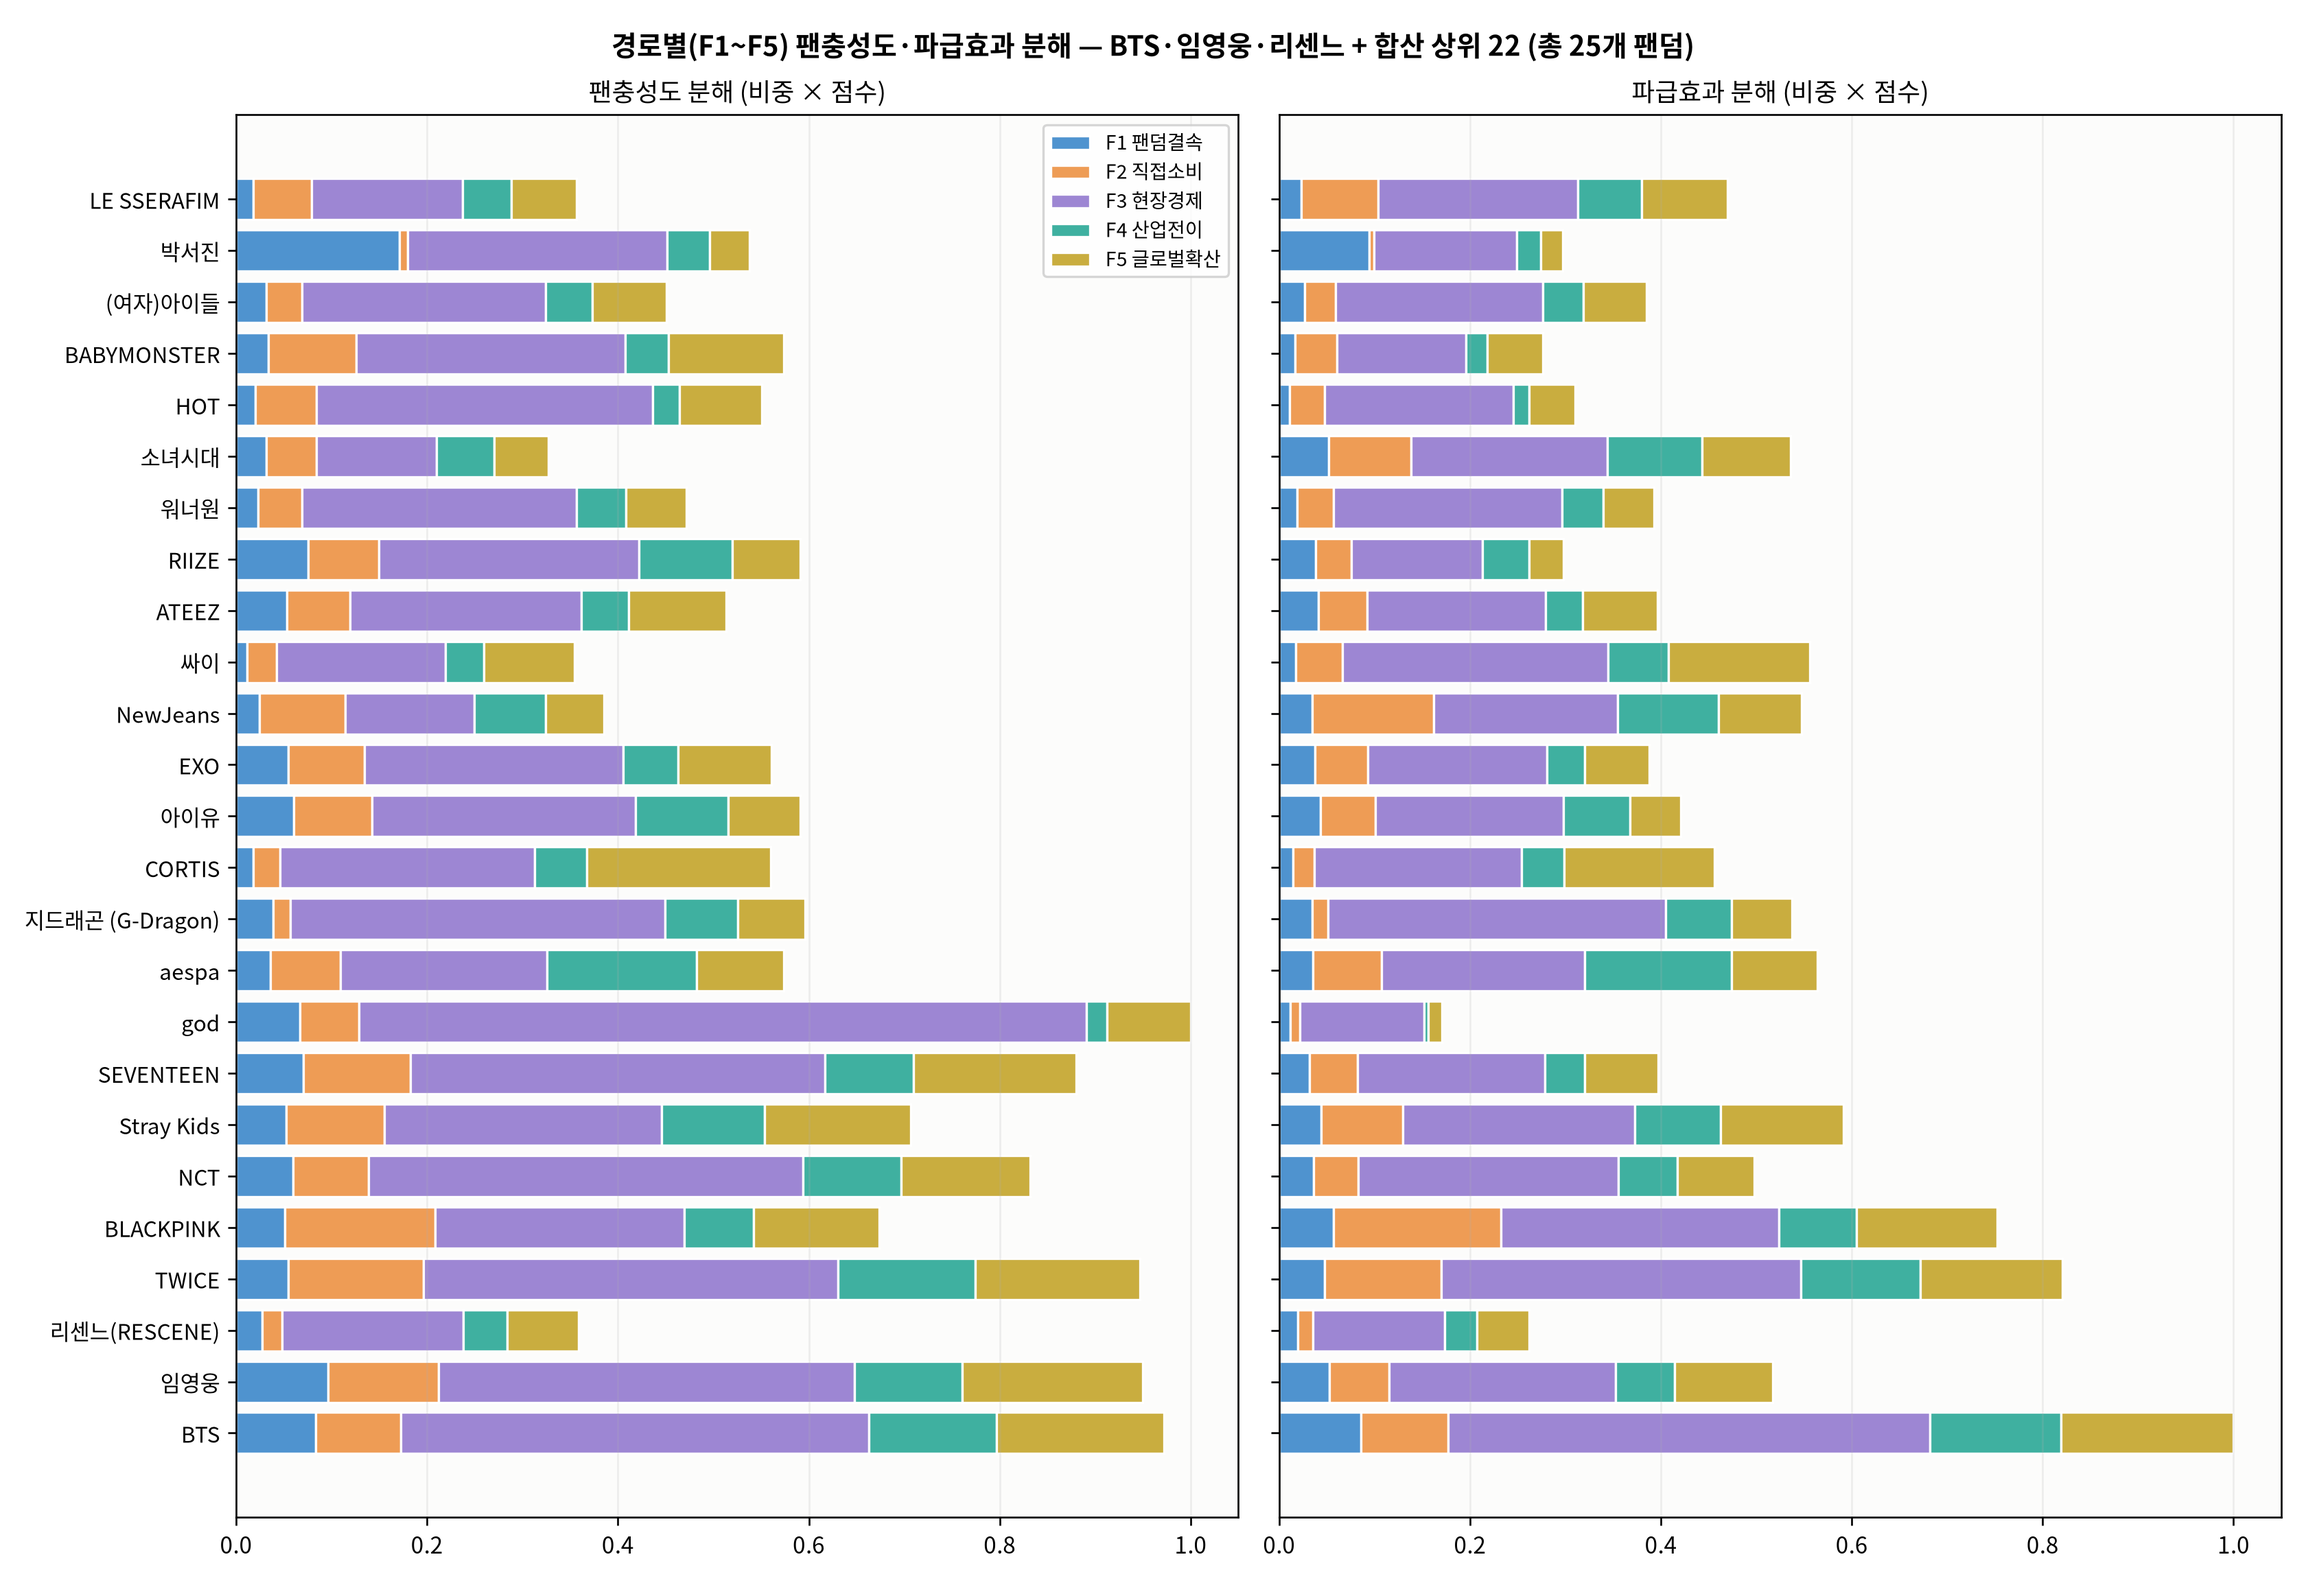
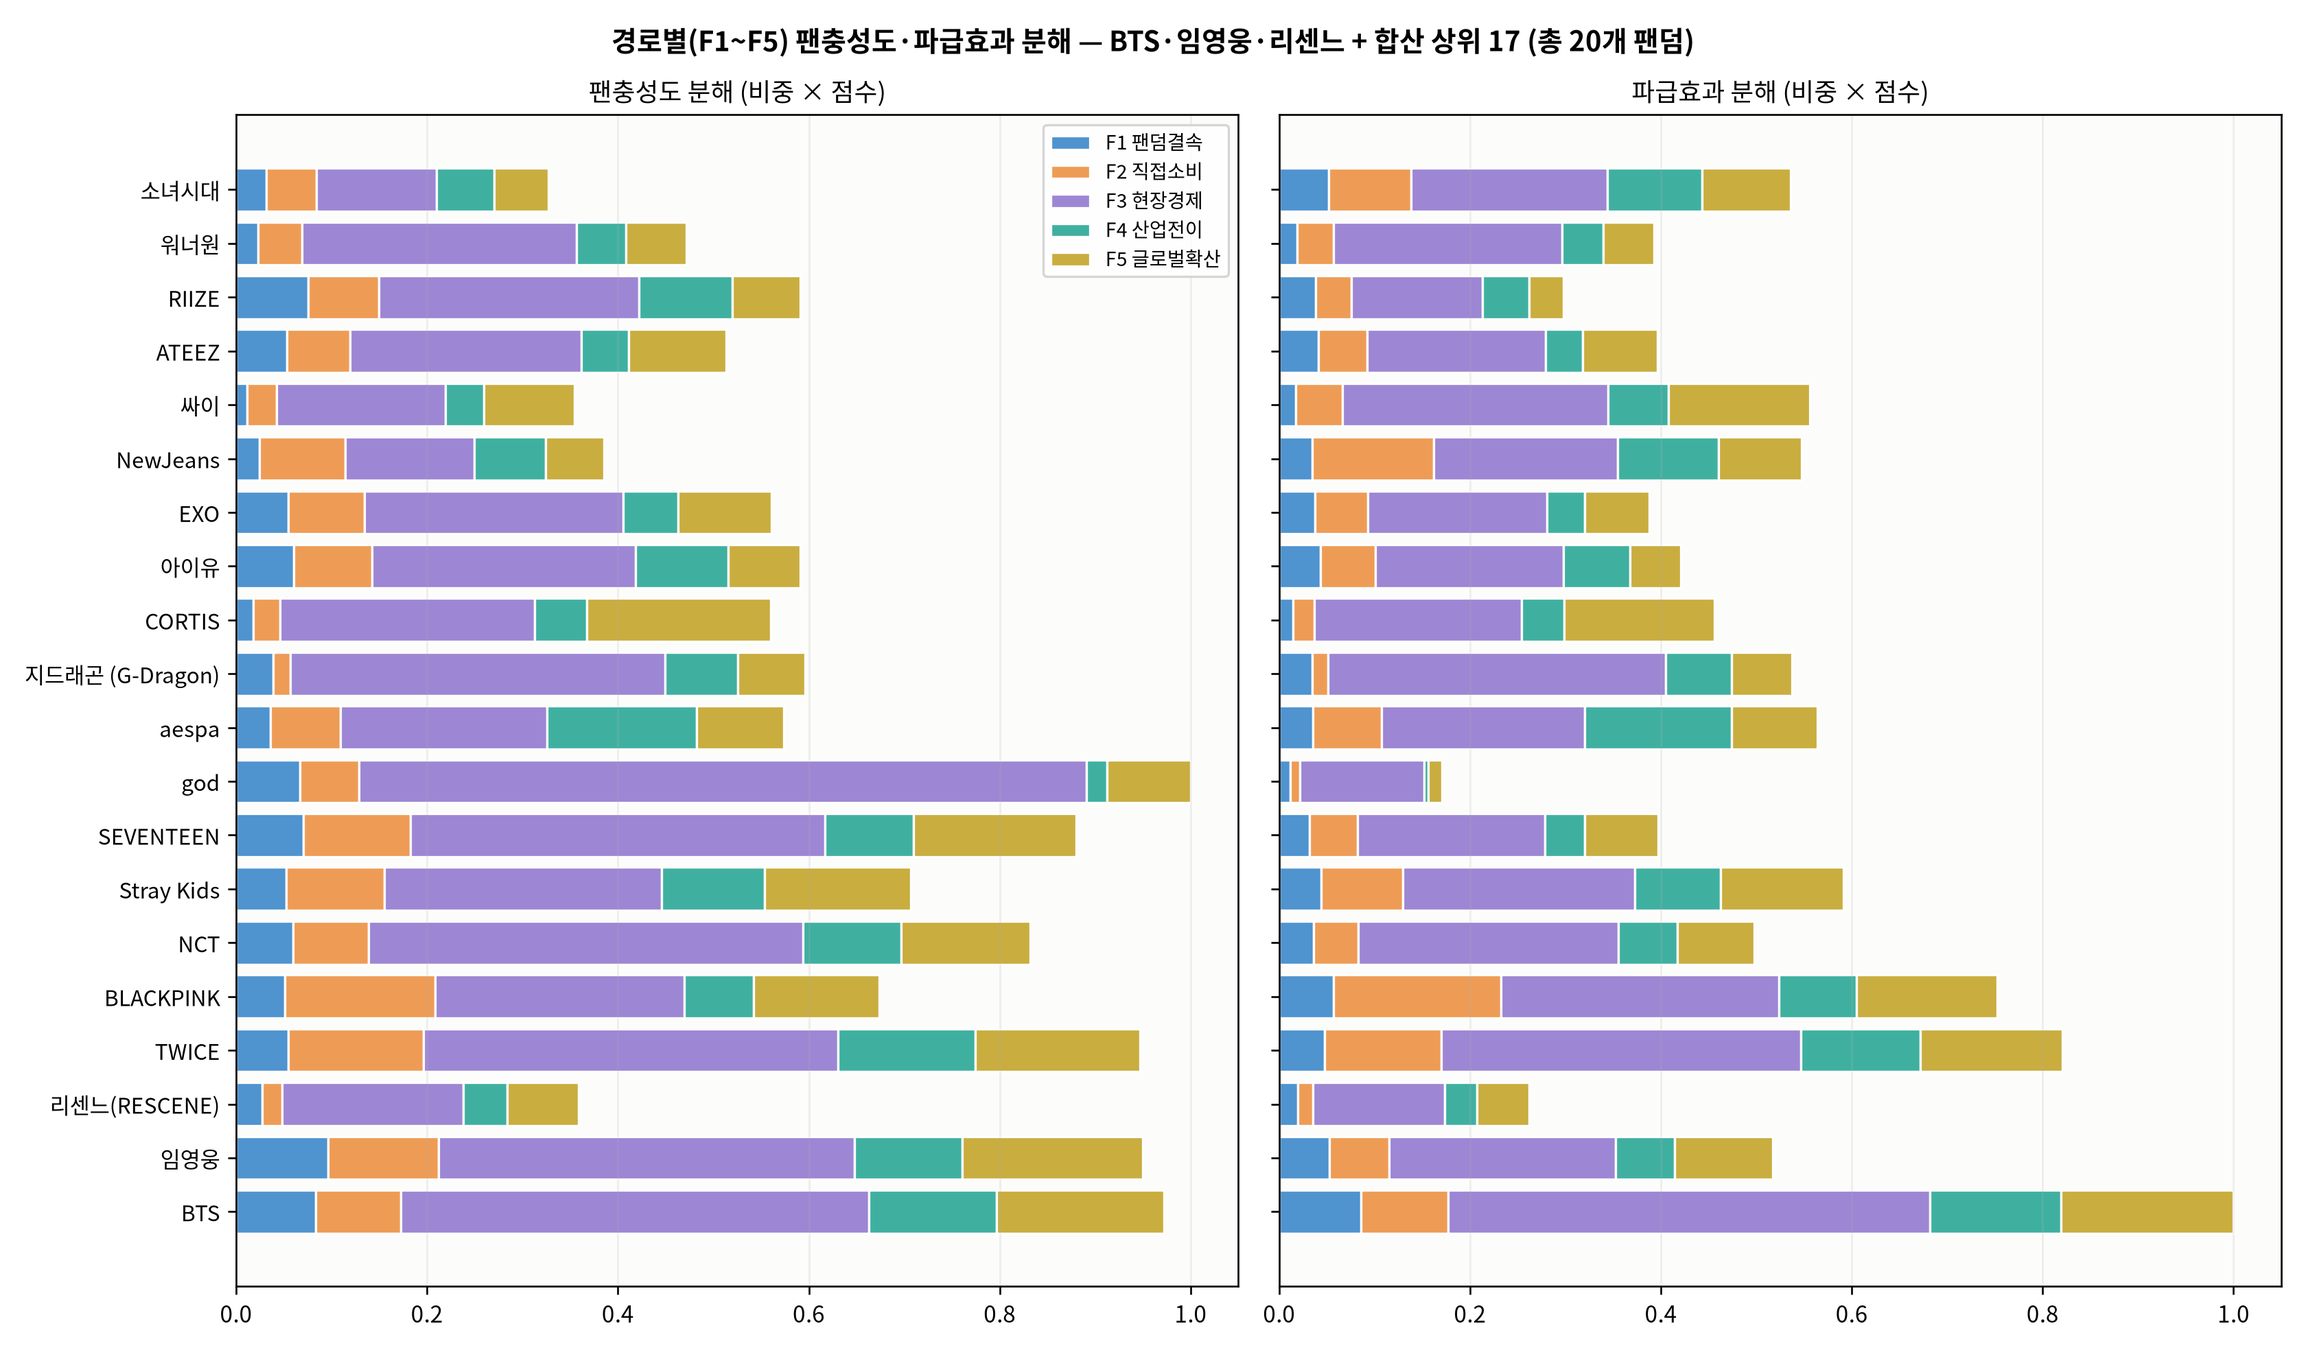
그림 6 경로별 분해를 20개 팬덤(강조 3 + 합산 상위 17)으로
Claude-Session: https://claude.ai/code/session_01VWuqhk8UFpTen2BecLssSX

Changed region(s): [[0.0312, 0.0, 0.9688, 0.9919], [0.0938, 0.9609, 0.125, 0.9919]]

diff --git a/README.md b/README.md
@@ -169,7 +169,7 @@ flowchart LR
 
 ![경로별(F1∼F5) 점수 분해](assets/readme/fig06_factor_specific_impact.png)
 
-*그림 6. 경로별(F1∼F5) 팬충성도·파급효과 분해 — BTS·임영웅·리센느와 합산 상위 22개, 총 25개 팬덤. 세 팬덤 모두 1위 경로는 F3(현장경제)로 같고, F5(글로벌 확산) 파급효과 기여는 BTS 0.180 · 임영웅 0.103 · 리센느 0.055이다.*
+*그림 6. 경로별(F1∼F5) 팬충성도·파급효과 분해 — BTS·임영웅·리센느와 합산 상위 17개, 총 20개 팬덤. 세 팬덤 모두 1위 경로는 F3(현장경제)로 같고, F5(글로벌 확산) 파급효과 기여는 BTS 0.180 · 임영웅 0.103 · 리센느 0.055이다.*
 
 <p align="center"><img src="assets/readme/fig07b_persona_pca.png" alt="Persona PCA" width="640"></p>
 
